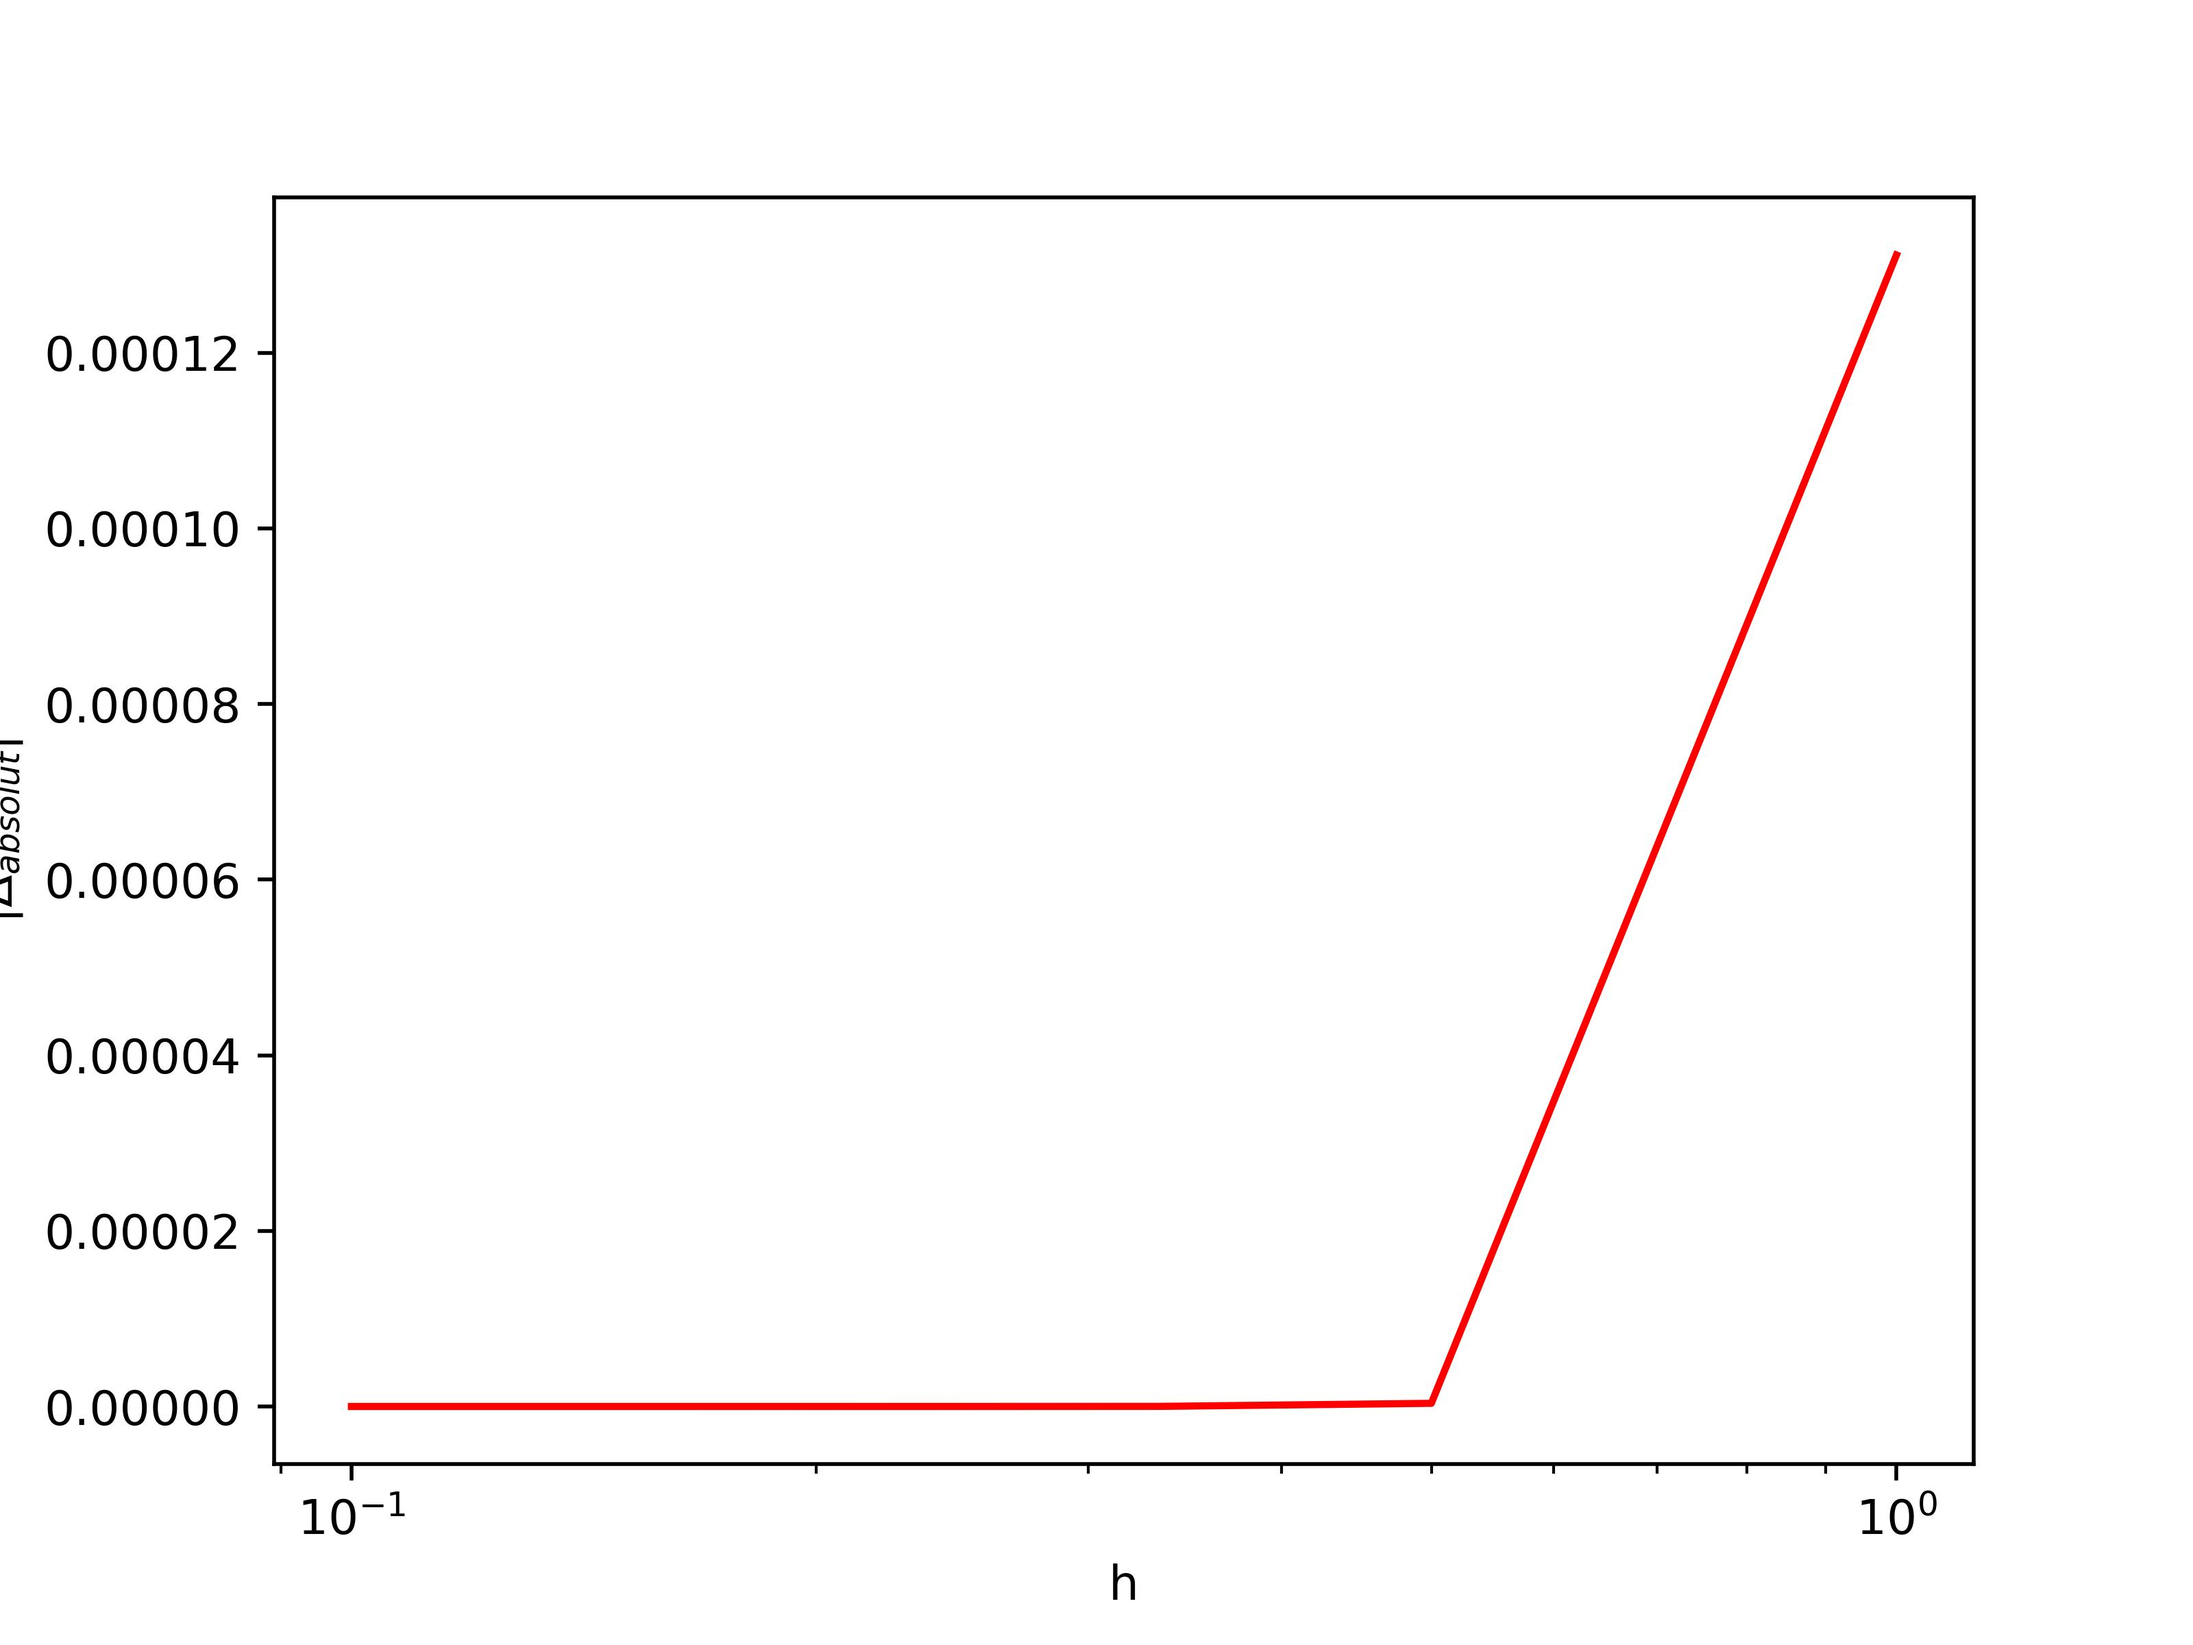
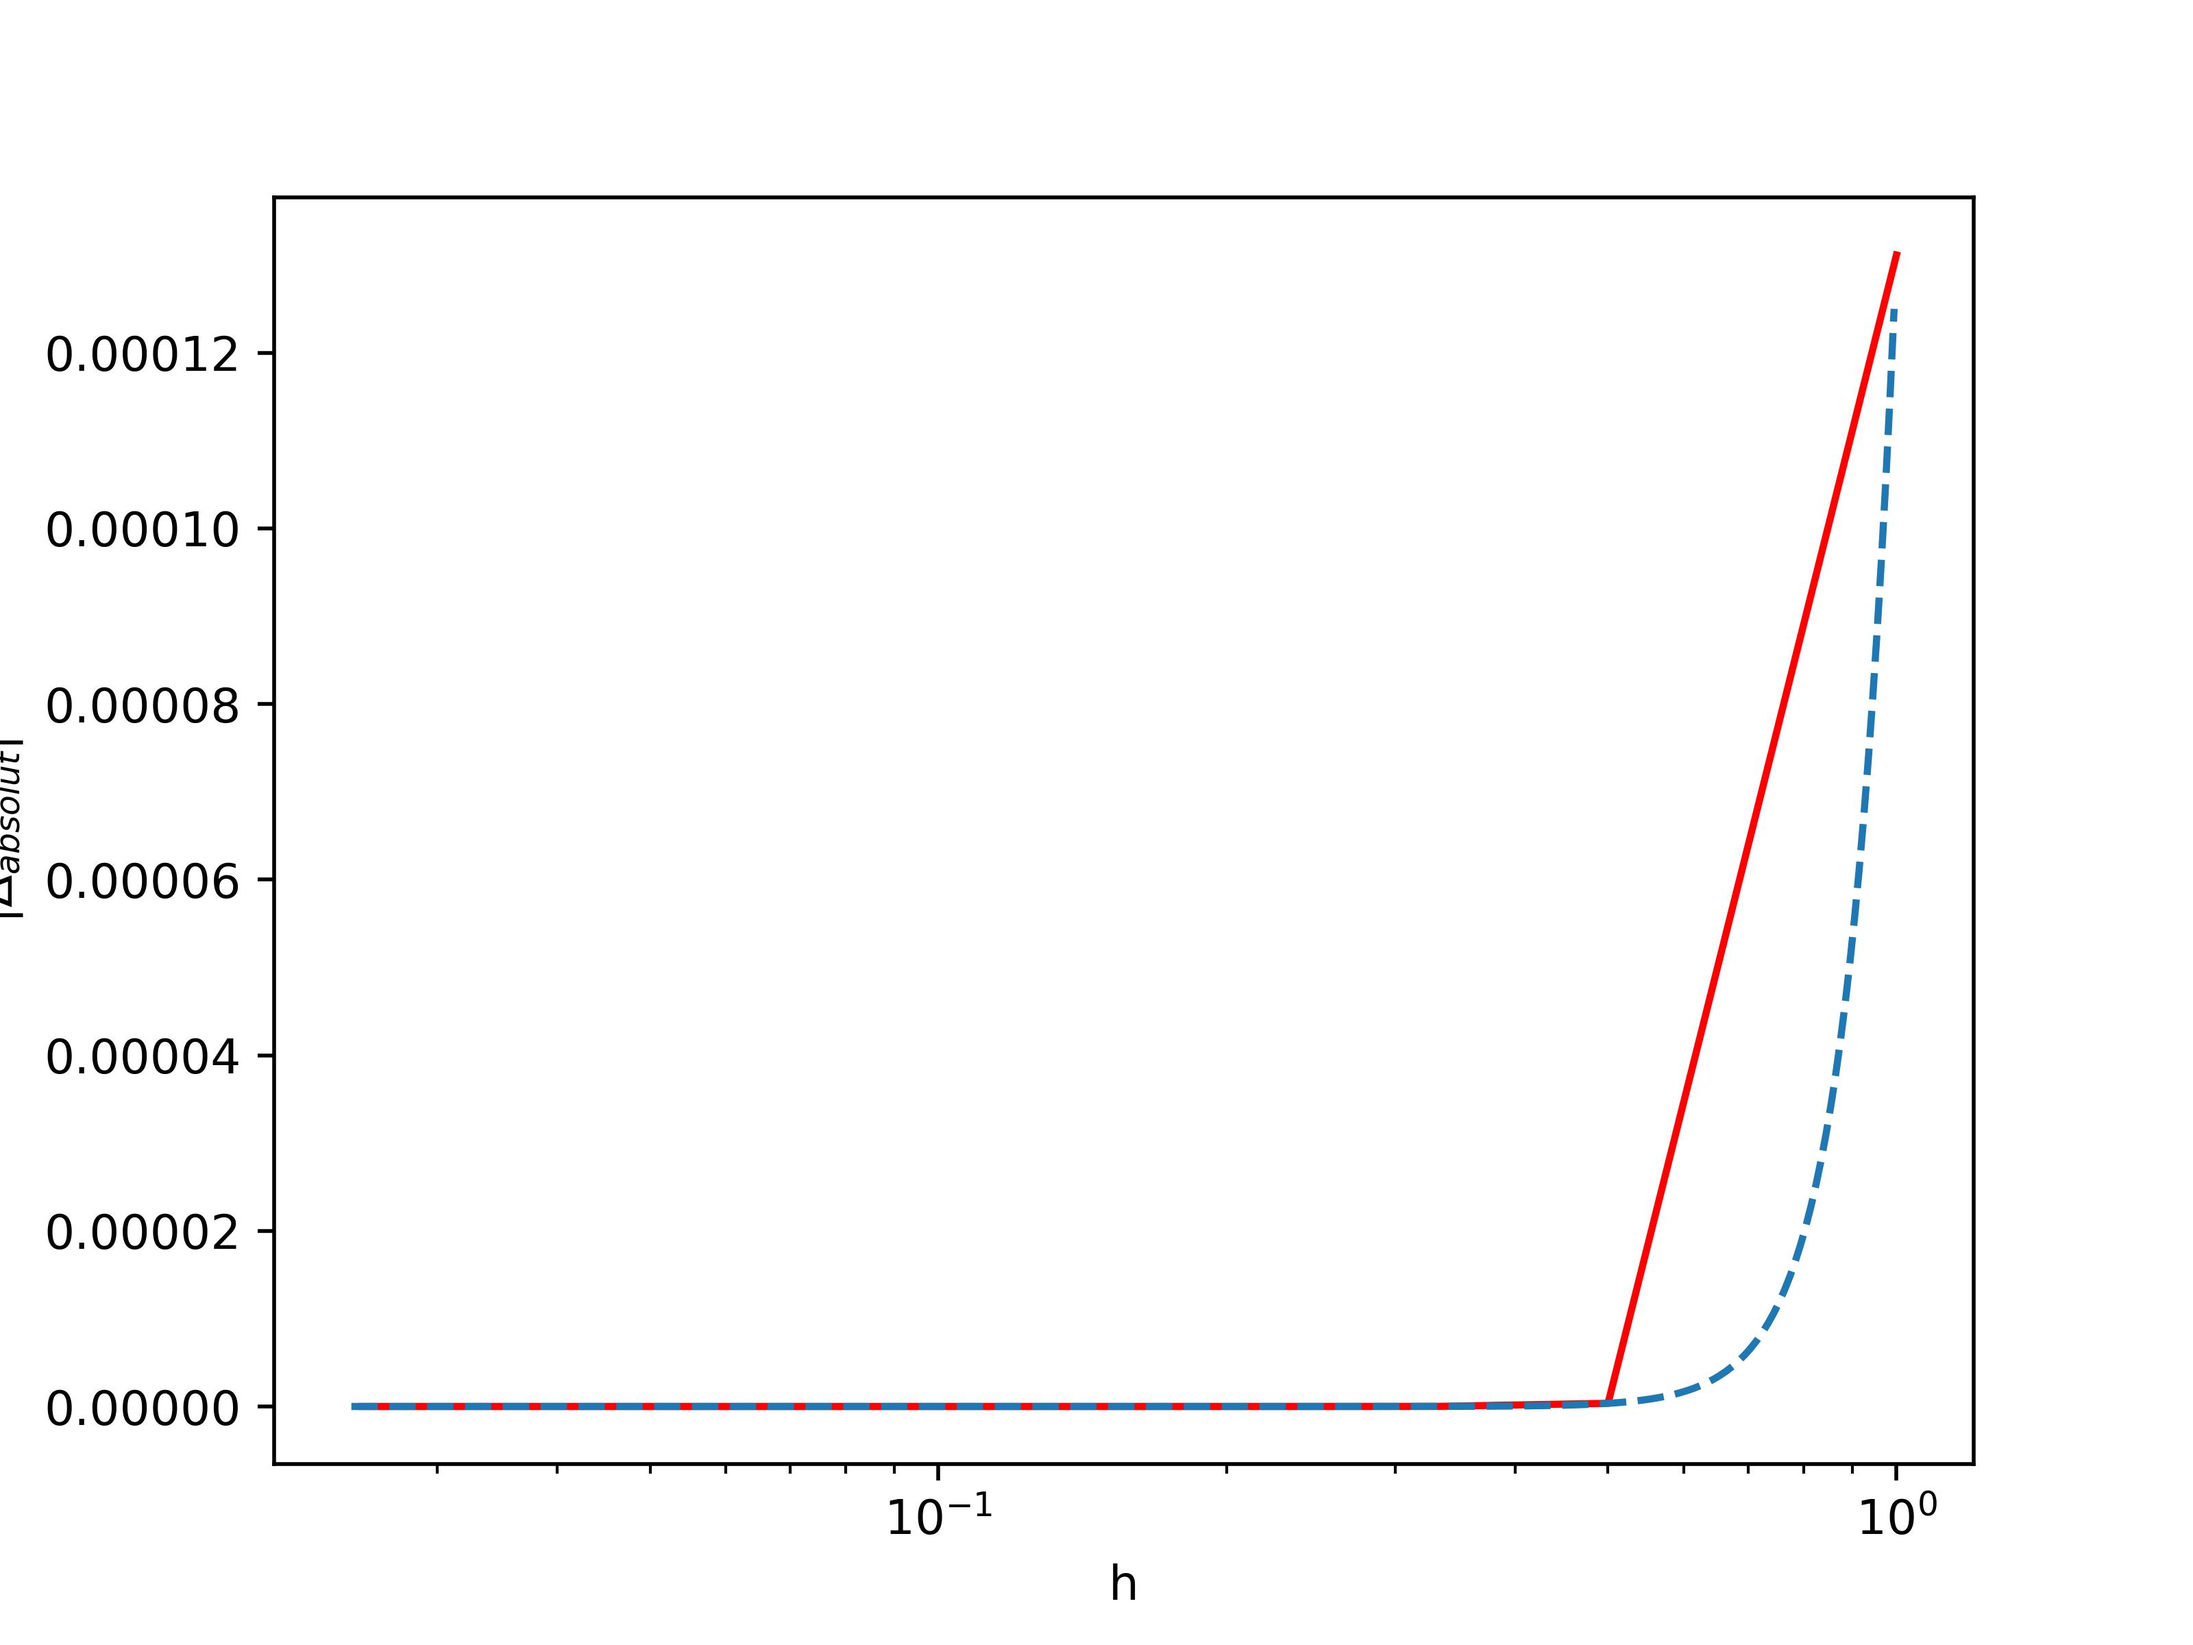
Added Cuve Fit

diff --git a/projekt-2-main.py b/projekt-2-main.py
@@ -25,16 +25,16 @@ def tf6(x):
     return(np.sin(1000*np.pi*x))
 vgl6=0
 
-plot(tf1,0,10,vgl1,save="images/G3-tf1.jpg")
-plot(tf2,0,10,vgl2,save="images/G3-tf2.jpg")
-plot(tf3,0,10,vgl3,save="images/G3-tf3.jpg")
-plot(tf4,0,10,vgl4,save="images/G3-tf4.jpg")
-plot(tf5,0,10,vgl5,save="images/G3-tf5.jpg")
+plot(tf1,4,40,vgl1,save="images/G3-tf1.jpg")
+plot(tf2,4,40,vgl2,save="images/G3-tf2.jpg")
+plot(tf3,0,40,vgl3,save="images/G3-tf3.jpg")
+plot(tf4,0,40,vgl4,save="images/G3-tf4.jpg")
+plot(tf5,0,40,vgl5,save="images/G3-tf5.jpg")
 plot(tf6,0,45,vgl6,save="images/G3-tf6.jpg")
 
-plot(tf1,0,10,vgl1,G_Wert= 5,save="images/G5-tf1.jpg")
-plot(tf2,0,10,vgl2,G_Wert= 5,save="images/G5-tf2.jpg")
-plot(tf3,0,10,vgl3,G_Wert= 5,save="images/G5-tf3.jpg")
-plot(tf4,0,10,vgl4,G_Wert= 5,save="images/G5-tf4.jpg")
-plot(tf5,0,10,vgl5,G_Wert= 5,save="images/G5-tf5.jpg")
-plot(tf6,0,45,vgl6,G_Wert= 5,save="images/G5-tf6.jpg")
+plot(tf1,0,40,vgl1,G_Wert= 5,save="images/G5-tf1.jpg")
+plot(tf2,0,40,vgl2,G_Wert= 5,save="images/G5-tf2.jpg")
+plot(tf3,0,40,vgl3,G_Wert= 5,save="images/G5-tf3.jpg")
+plot(tf4,0,40,vgl4,G_Wert= 5,save="images/G5-tf4.jpg")
+plot(tf5,0,40,vgl5,G_Wert= 5,save="images/G5-tf5.jpg")
+plot(tf6,0,40,vgl6,G_Wert= 5,save="images/G5-tf6.jpg")

diff --git a/projekt2module.py b/projekt2module.py
@@ -2,6 +2,10 @@
 import numpy as np
 from numpy import exp
 import matplotlib.pyplot as plt
+from scipy.optimize import curve_fit
+
+def potfunc(x, c, p):
+    return c*(x**p)
 
 def G3(h,funktion):
     schritt = np.arange(0,1,step=h)
@@ -38,13 +42,16 @@ def plot(Testfunktion,nmin,nmax,Vergleichsintegralwert,G_Wert=3,log=True,save=Fa
         else:
             print("Fehlermeldung")
             break
-    h.reverse()
-    err.reverse()
+
+    params, covariance = curve_fit(potfunc, h, np.abs(err))
+    c_fit, p_fit = params
+    print(f"Angepasste Parameter: c = {c_fit}, p = {p_fit}")
 
     plt.figure(dpi=500)
     plt.xlabel("h")
     plt.ylabel(r"|$\Delta_{absolut}$|")
     plt.plot(h,np.abs(err),"-r")
+    plt.plot(np.arange(1/(1+nmax),1/(1+nmin), 0.01),potfunc(np.arange(1/(1+nmax),1/(1+nmin), 0.01), c_fit, p_fit), "--")
 
     if log:
         plt.xscale("log")
@@ -53,8 +60,3 @@ def plot(Testfunktion,nmin,nmax,Vergleichsintegralwert,G_Wert=3,log=True,save=Fa
         plt.savefig(save)
         
     return 0
-
-
-
-
-plot(exp,0,4,exp(1)-1,save="images/testplot.jpg")
